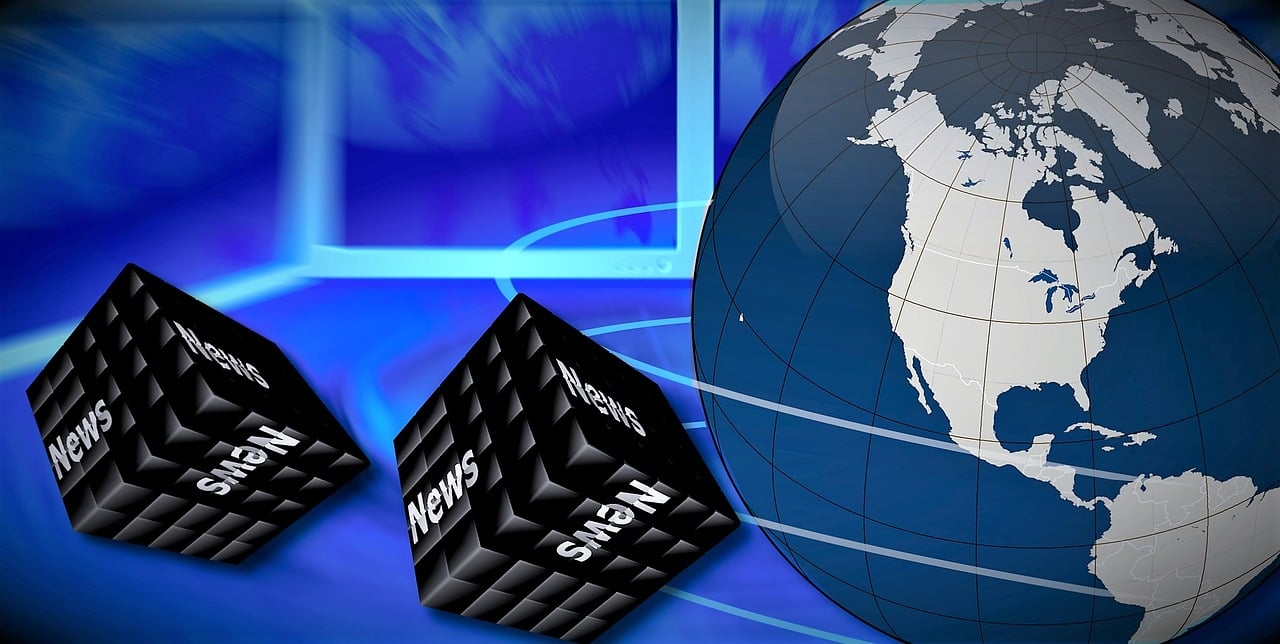
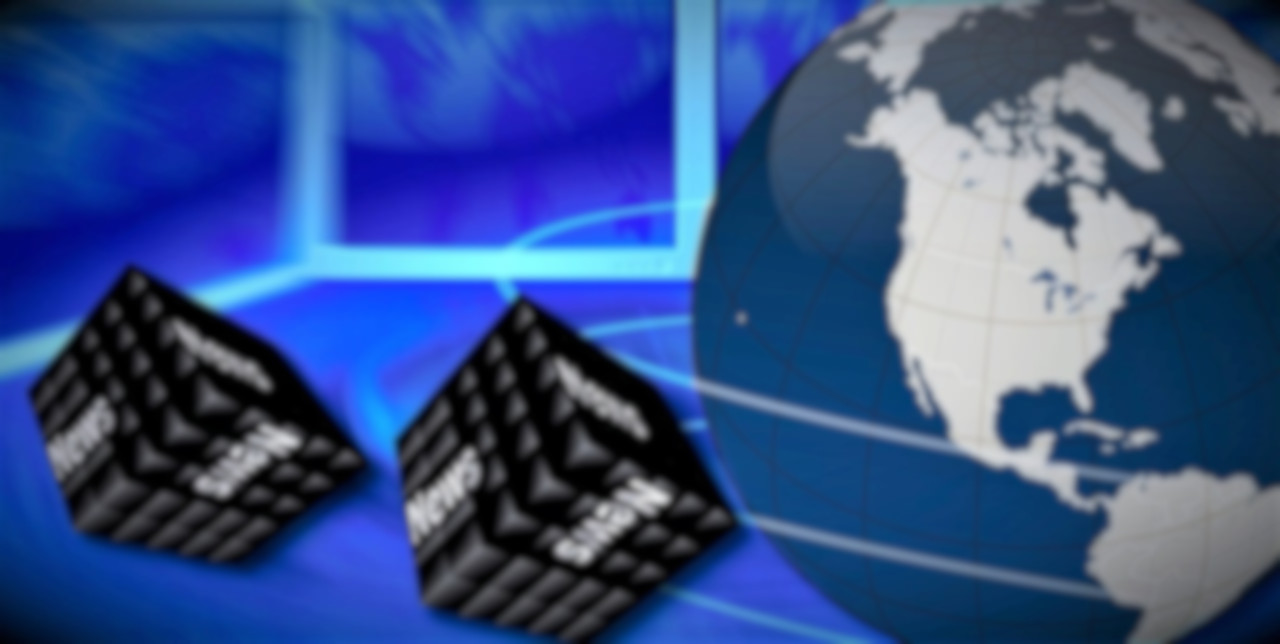
Build if js, css and tweaking of HTML

diff --git a/scripts/script.js b/scripts/script.js
@@ -1,0 +1,88 @@
+// form show/hide settings
+let form = document.getElementById('regform');
+let register = document.getElementById('register');
+
+function showForm() {
+    if (form.style.display === 'none') {
+    form.style.display = 'block';}
+    else {
+    form.style.display = 'none';}
+}
+
+register.addEventListener('click', showForm);
+
+// search bar show/hide settings
+let searchBar = document.getElementById('searchbar');
+let search = document.getElementById('search');
+
+function showSearchBar() {
+    if (searchBar.style.display === 'none') {
+    searchBar.style.display = 'block';}
+    else {
+    searchBar.style.display = 'none';}
+}
+
+search.addEventListener('click', showSearchBar);
+
+// database
+let storage = [];
+
+// save data
+function saveData() {
+    let myProgram = {
+
+         title: document.getElementById('title').value,
+
+         summary: document.getElementById('summary').value,
+
+         age: document.getElementById('age').value,
+    };
+    
+    let myProgram_string = JSON.stringify(myProgram);
+
+    localStorage.setItem('myProgram', myProgram_string);
+
+    let myProgram_to_obj = JSON.parse(localStorage.getItem('myProgram'));
+
+    storage.push(myProgram_to_obj);
+
+    console.log(storage);    
+}
+
+const spara = document.getElementById('spara');
+spara.addEventListener('click', saveData);
+
+
+//  /* Tre funktioner, en som sparar data, en som hämtar data och visar, en som rensar. */ 
+//  // Funktion som sparar data lokalt function 
+//  function saveData() { const newData = document.getElementById('title').value; 
+//     //hämta värdet från formulär 
+//     console.log(newData); 
+//     let existingData = localStorage.getItem('savedData'); 
+//     // hämta tidigare data 
+//     existingData = existingData ? JSON.parse(existingData) : []; 
+//     //om det finns data sedan innan, konvertera från JSON till objekt, annars skapa en tom array. 
+//     existingData.push(newData);
+//     //lägg till data 
+//     localStorage.setItem('savedData', JSON.stringify(existingData));
+//     //gör om data till sträng, spara i local 
+//     alert('Data saved to local storage!'); 
+//     document.getElementById('title').value = ''; // Clear input field 
+//     } 
+//  // Visa sparad data 
+//  function showData() { const savedData = localStorage.getItem('savedData'); 
+//     if (savedData) { 
+//         const parsedData = JSON.parse(savedData); 
+//         //gör om JSON till objekt 
+//         if (parsedData.length > 0) { 
+//             alert('Data hämtad från local stoarage: ' + parsedData.join(', ')); }
+//         else { alert('Ingen data hittad'); } 
+//     } 
+//     else { 
+//         alert('Ingen data hittad'); } 
+// } 
+// // Rensa data 
+// function clearStorage() { 
+//     localStorage.removeItem('savedData'); 
+//     alert('Local storage cleared'); 
+// }

diff --git a/styles/style.scss b/styles/style.scss
@@ -1,24 +1,43 @@
+// @keyframes scale-up-top{
+//     0%{transform:scale(.5);
+//     transform-origin:center top}
+//     100%{transform:scale(1);
+//     transform-origin:center top}}
+
 body { background-image: url("/media/news_backdrop.jpg");
 background-repeat: no-repeat;
 background-size: cover;
-backdrop-filter: blur(6px);
 margin: 0px;
 padding: 1%;
 display: flex;
 justify-content: center;
 flex-direction: column;
 
+
     header {font-size: xxx-large;
     font-weight: bolder;
     text-align: center;
-    border: 1px solid black;}
+    color: bisque;
+    text-shadow: 1px 1px 2px rgb(255, 0, 0), 
+    0 0 1em rgb(63, 63, 255), 0 0 0.2em blue;
+    width: 100%;}
 
     h1 {font-size: xx-large;
     font-weight: bolder;
-    text-align: center;}
+    text-align: center;
+    color: antiquewhite;
+    text-shadow: 1px 1px 2px rgb(255, 0, 0), 
+    0 0 1em rgb(63, 63, 255), 
+    0 0 0.2em blue;}
 
-    main {border: 2px solid black;
-        display: flex;
+    h2 {font-size: x-large;
+    font-weight: bolder;
+    color: antiquewhite;
+    text-shadow: 1px 1px 2px rgb(255, 0, 0), 
+    0 0 1em rgb(63, 63, 255), 
+    0 0 0.2em blue;}
+
+    main {display: flex;
         text-align: center;
         flex-direction: column;
         justify-content: center;
@@ -26,8 +45,37 @@ flex-direction: column;
         width: 100%;
         height: 100%;
 
+        form {display: flex;
+        flex-direction: column;
+        justify-content: center;
+        align-items: center;
+    
+            input {width: 40%;
+            border-radius: 15px;}
+        }
+         
+        .scale-up-top{animation:scale-up-top 0.8s;}
+
+        #regform {background-color: rgba(0, 0, 0, 0.507);
+        border-radius: 10px;
+        width: 500px;
+        display: block; // change back
+        }
+
         #age {width: 100px;}
-    }
-    footer {border: 1px solid black;}
+
+        #searchbar {background-color: rgba(0, 0, 0, 0.507);
+        border-radius: 10px;
+        width: 500px;
+        display: none;}
+        }
+
+    footer {width: 100%;
+        text-align: center;
+        color: antiquewhite;
+        text-shadow: 1px 1px 2px rgb(255, 0, 0), 
+        0 0 1em rgb(63, 63, 255), 
+        0 0 0.2em blue;
+        }
 
 }

diff --git a/styles/style.css b/styles/style.css
@@ -2,8 +2,6 @@ body {
   background-image: url("/media/news_backdrop.jpg");
   background-repeat: no-repeat;
   background-size: cover;
-  -webkit-backdrop-filter: blur(6px);
-          backdrop-filter: blur(6px);
   margin: 0px;
   padding: 1%;
   display: flex;
@@ -14,15 +12,24 @@ body header {
   font-size: xxx-large;
   font-weight: bolder;
   text-align: center;
-  border: 1px solid black;
+  color: bisque;
+  text-shadow: 1px 1px 2px rgb(255, 0, 0), 0 0 1em rgb(63, 63, 255), 0 0 0.2em blue;
+  width: 100%;
 }
 body h1 {
   font-size: xx-large;
   font-weight: bolder;
   text-align: center;
+  color: antiquewhite;
+  text-shadow: 1px 1px 2px rgb(255, 0, 0), 0 0 1em rgb(63, 63, 255), 0 0 0.2em blue;
+}
+body h2 {
+  font-size: x-large;
+  font-weight: bolder;
+  color: antiquewhite;
+  text-shadow: 1px 1px 2px rgb(255, 0, 0), 0 0 1em rgb(63, 63, 255), 0 0 0.2em blue;
 }
 body main {
-  border: 2px solid black;
   display: flex;
   text-align: center;
   flex-direction: column;
@@ -31,9 +38,37 @@ body main {
   width: 100%;
   height: 100%;
 }
+body main form {
+  display: flex;
+  flex-direction: column;
+  justify-content: center;
+  align-items: center;
+}
+body main form input {
+  width: 40%;
+  border-radius: 15px;
+}
+body main .scale-up-top {
+  animation: scale-up-top 0.8s;
+}
+body main #regform {
+  background-color: rgba(0, 0, 0, 0.507);
+  border-radius: 10px;
+  width: 500px;
+  display: block;
+}
 body main #age {
   width: 100px;
 }
+body main #searchbar {
+  background-color: rgba(0, 0, 0, 0.507);
+  border-radius: 10px;
+  width: 500px;
+  display: none;
+}
 body footer {
-  border: 1px solid black;
+  width: 100%;
+  text-align: center;
+  color: antiquewhite;
+  text-shadow: 1px 1px 2px rgb(255, 0, 0), 0 0 1em rgb(63, 63, 255), 0 0 0.2em blue;
 }/*# sourceMappingURL=style.css.map */

diff --git a/index.html b/index.html
@@ -7,22 +7,35 @@
         <meta name="viewport" content="width=device-width, intitial-scale = 1.0">
     </head>
     <body>
-        <header>Sveriges Telavisionskanaler</header>
+        <header><p>Sveriges Televisionskanaler</p></header>
         <main>
             <h1>Välkommen</h1>
-            <section>
+            <div id="buttons">
+                <button id="register" >Registrera</button>
+                <button id="search" >Sök</button>
+            </div>
+            <div id="regform" class="scale-up-top">
                 <form action="">
                     <h2>Titel</h2>
-                    <input type="text" placeholder="Titel">
+                    <input id="title" type="text" value="">
                     <h2>Beskrivning</h2>
-                    <input type="text" placeholder="Beskrivning">
+                    <input id="summary" type="text" placeholder="Beskrivning">
                     <h2>Åldernsgräns</h2>
                     <input id="age" type="number" placeholder="Åldernsgräns"> 
-                    <input type="submit" value="Spara">
+                    <input id="spara" type="submit" value="Spara">
                 </form>
-            </section>
+            </div>
+            <div id="searchbar" class="scale-up-top">
+                <form action="">
+                    <h2>Sök</h2>
+                    <input type="search" placeholder="Titel">
+                    <input type="submit" value="Sök">
+                </form>
+            </div>
         </main>
-        <footer>something</footer>
+        <footer>
+            <p>&copy; 2023 <NAME></p>
+        </footer>
         <script src="scripts/script.js"></script>
     </body>
 </html>
